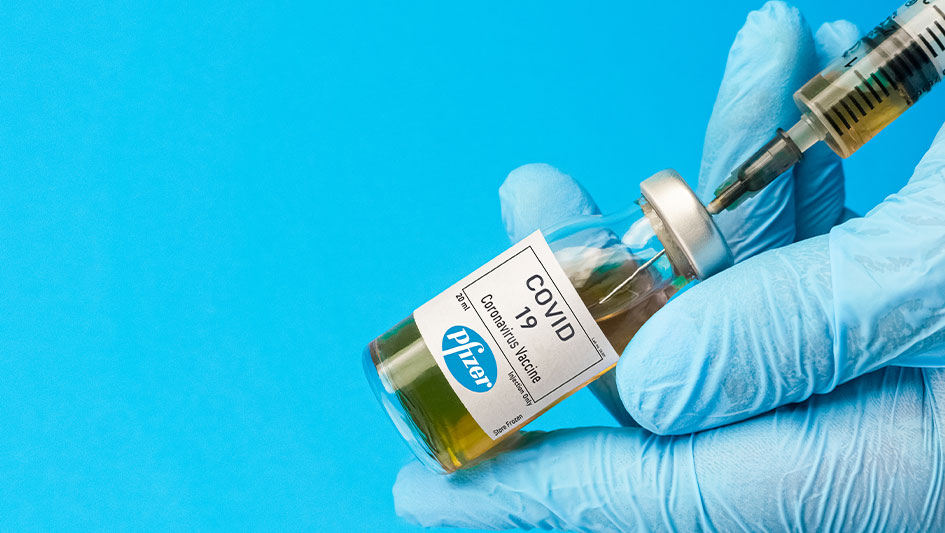
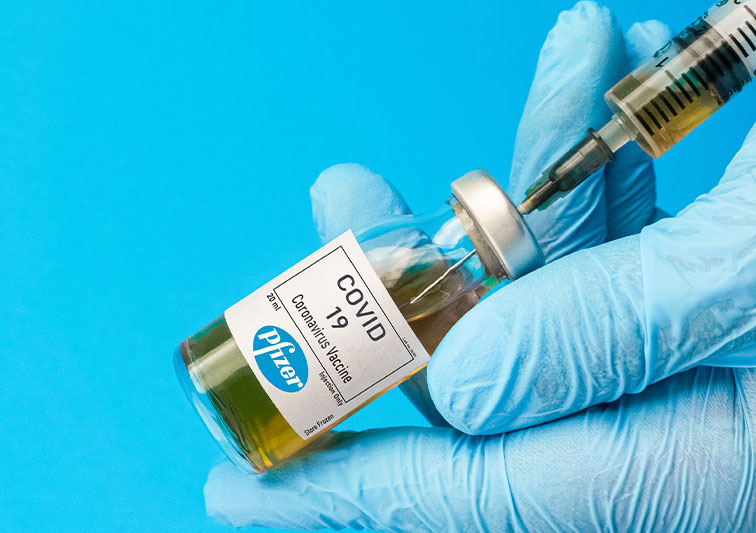
Update from Forestry.io tomermichaeli created content/images/stock-pfizer-covidvaccine-01-shutt.jpg tomermichaeli created content/posts/דיון-ציבורי-על-חיסוני-קורונה-לילדים.md

diff --git a/content/posts/דיון-ציבורי-על-חיסוני-קורונה-לילדים.md b/content/posts/דיון-ציבורי-על-חיסוני-קורונה-לילדים.md
@@ -1,0 +1,46 @@
+---
+topic: בריאות
+date: 2021-10-29T06:56:19Z
+hero_image: "/content/images/stock-pfizer-covidvaccine-01-shutt.jpg"
+title: דיון ציבורי על חיסוני קורונה לילדים
+article_title: צוות הטיפול במגפות יקיים ביום חמישי דיון פתוח לציבור בנושא מתן חיסוני
+  קורונה לילדים בגילאי 5-11
+author: חדשות ישראל
+
+---
+לאחר שוועדת המומחים של ה-FDA המליצה על מתן חיסוני קורונה לילדים בגילאי 5-11, החליט צוות הטיפול במגפות לקיים דיון ציבורי פתוח ולהציג את המידע בנושא ואת מכלול השיקולים לקראת קבלת ההחלטה על המלצתו למנכ״ל משרד הבריאות.
+
+## הדיון יתקיים ביום חמישי, 4 בנובמבר, בשעה 15:00.
+
+הדיון יועבר בשידור חי והציבור יוזמן להשמיע את עמדתו בפני חברי הוועדה ולהציג שאלות למומחים. המלצת הועדה לא תתקבל בדיון זה. הדיון יכלול את הצגת הנושא ע״י מומחים וחברת פייזר וכן מענה לסוגיות שיעלו מהציבור ושמיעת עמדות שונות.
+
+בכדי להגיש התייחסויות, ניתן לפנות בשני מסלולים:
+
+#### בקשה להשמיע עמדה בנושא מתן החיסונים לילדים בגילאי 5-11 בפני הצט״מ:
+
+כל המעוניין להשמיע את עמדתו בנושא מוזמן לפנות עד לתאריך 2.11.21 בשעה 9:00. הפונים יקבלו תשובה לגבי הצגת עמדתם עד ליום 3.11.21 בשעה 13:00. יש להגיש את הבקשה [כאן](https://survey.gov.il/he/publichearing). במסגרת הבקשה יש לתאר את העמדה אותה אתם מעוניינים להציג בפני הצט״מ - ככל שישנם מסמכים שתומכים בעמדה, יש לצרפם.
+
+  
+מכיוון שמספר הפונים צפוי להיות גדול, ייבחרו הדוברים שיציגו לפי הקריטריונים הבאים:
+
+* נציגות לגורמי מקצוע בתחומי הבריאות והרפואה, נציגות לארגוני חברה אזרחית, נציגות לציבור הרחב.
+* נציגות לפי נושא ההתייחסות – בטיחות החיסון, מועילות החיסון, סוגיות אחרות.
+* נציגות לפי העמדה ביחס לחיסון – תומכים בחיסון, מתנגדים לחיסון, מעלים סוגיות כלליות ביחס לחיסון בלי התייחסות לתמיכה או התנגדות.
+
+תיערך הגרלה בין הפונים, שתשמור על ייצוגיות לפי הקריטריונים.
+
+השימוע הציבורי יערך בדומה ל-FDA:
+
+* לכל דובר יוקצו 3 דקות
+* הדובר יציג את דבריו ללא שימוש במצלמת הוידאו.
+* ככל שהדובר יציג מצגת - המצגת תישלח מראש עד ליום 3.11.21 בשעה 21:00.
+* המצגת תתייחס לסוגיות שהעלה הפונה בבקשתו.
+* העברת השקפים תתבצע על ידי משרד הבריאות בהתאם להנחיית המציג.
+* יתבצע גילוי נאות לגבי ניגודי עניינים אפשריים.
+* סדר הדוברים ייקבע בהגרלה.
+* ייבחרו כ-20 דוברים להציג את עמדתם בפני הצט״מ.
+* הדובר יתייחס לנושא המקצועי. לא יתאפשר שיח שישמיץ באופן אישי או קבוצתי את חברי הצט״מ או את עובדי משרד הבריאות. לא תתאפשר אלימות מילולית מכל סוג שהיא במהלך הדיון. במקרים של חריגה מכלל זה, תופסק באופן מיידי ההצגה של הדובר.
+
+#### שאלות או סוגיות שהציבור מעוניין שהמומחים המציגים בדיון יתייחסו אליהן:
+
+כל המעוניין להציג סוגיה מוזמן לפנות עד לתאריך 2.11.21 בשעה 16:00. יש להגיש את הבקשה [כאן](https://survey.gov.il/he/pandemicexperts). מתוך הפניות שיתקבלו, יבחרו מספר שאלות שיוצגו בפני המומחים על ידי מנחה הדיון.
